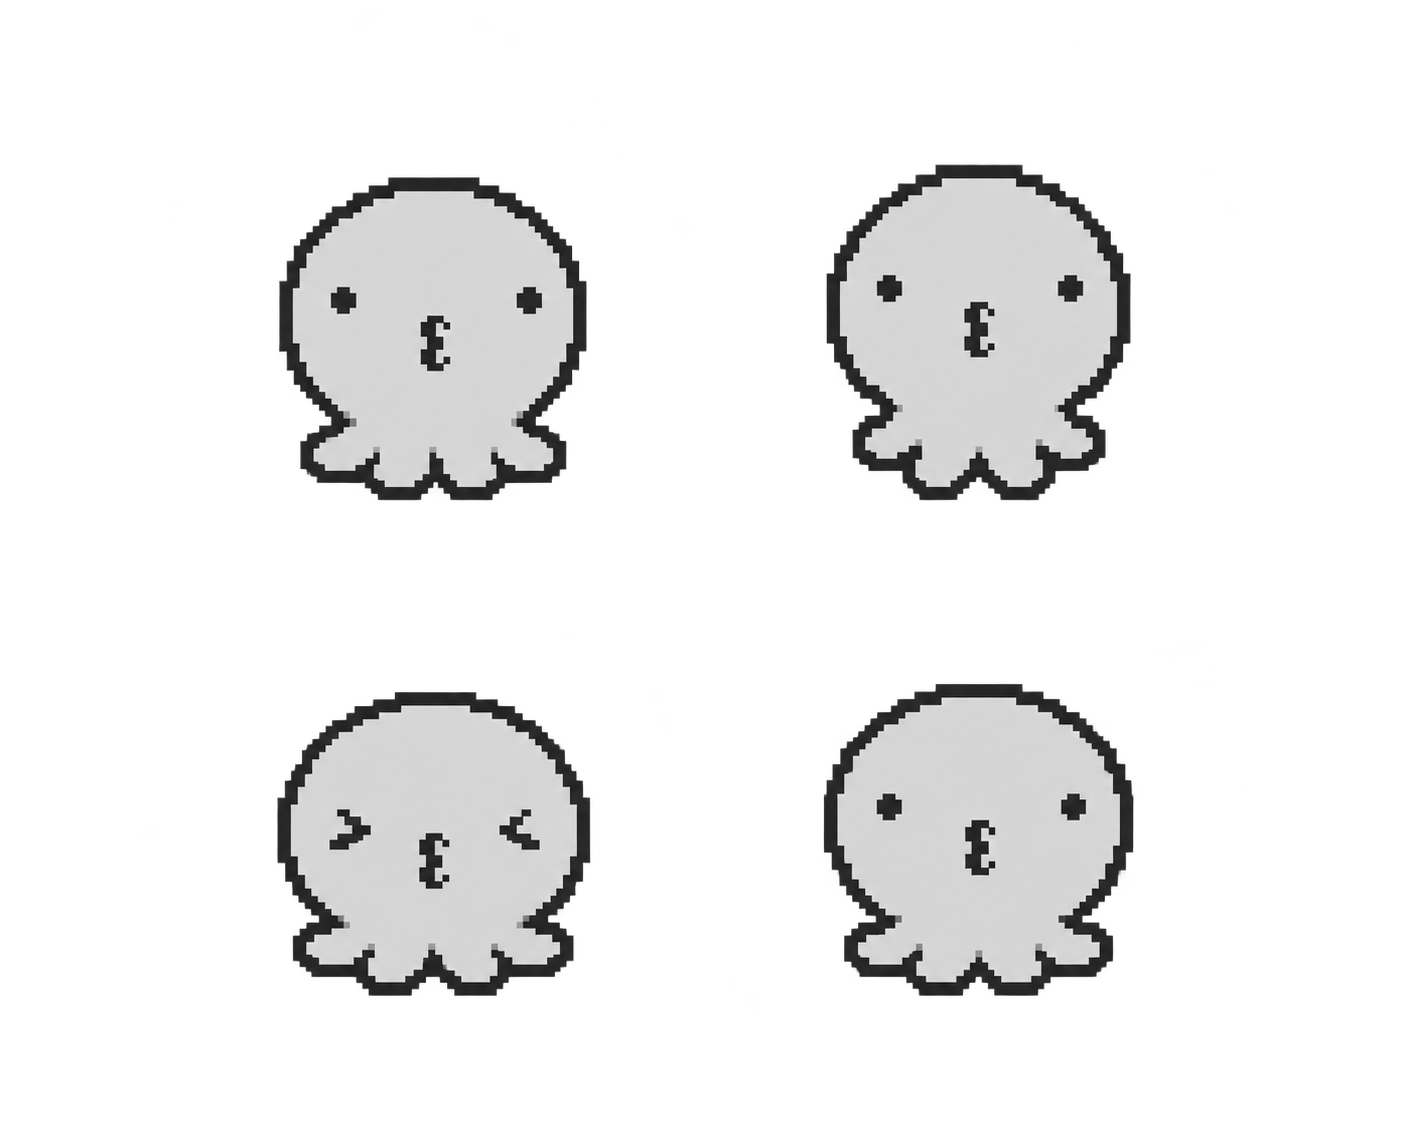
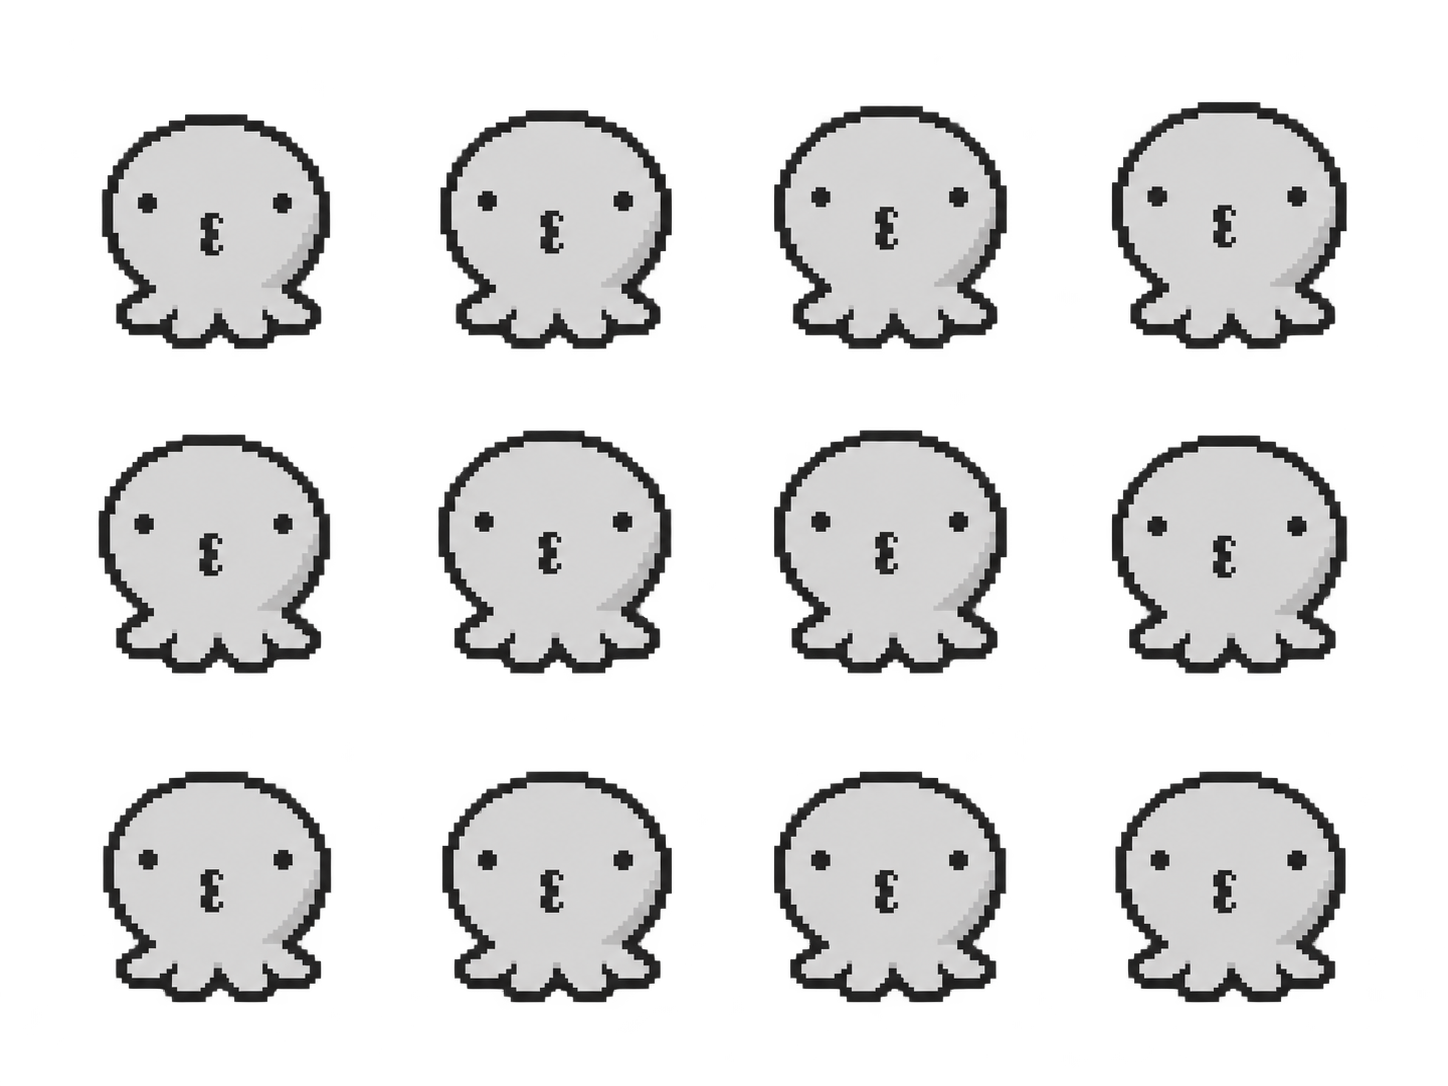
캐릭터: 첫 대기 시안 GIF와 최종 에셋 모음 정리

diff --git a/docs/검증/octopus-character-assets/README.md b/docs/검증/octopus-character-assets/README.md
@@ -2,11 +2,13 @@
 
 사용자 그림의 회색 몸체·둥근 머리·짧은 네 촉수·3자 입을 기준으로 만든 픽셀 에셋이다. 현재 게임 캐릭터에는 미적용 상태다.
 
+사용자가 선택한 에셋은 [final 폴더](final/README.md)에 따로 모은다. 대기와 승리를 보관했으며, 이후 완성하는 동작도 같은 폴더를 갱신한다. 실제 게임 반영은 사용자가 일괄 적용을 요청할 때 진행한다.
+
 ## 투명 PNG
 
 | 동작 | 스프라이트 시트 | 프레임 수 | 권장 시간 |
 |---|---|---:|---|
-| 대기 | [idle-64.png](idle-64.png) | 4 | 350 / 200 / 90 / 350 ms |
+| 대기 | [idle-64.png](idle-64.png) | 12 | 각 250 ms, 호흡 3초 |
 | 이동 | [walk-64.png](walk-64.png) | 4 | 각 130 ms |
 | 멈춤 | [stop-64.png](stop-64.png) | 4 | 100 / 90 / 120 / 650 ms |
 | 피격 | [hit-64.png](hit-64.png) | 4 | 100 / 90 / 140 / 750 ms |
@@ -22,10 +24,12 @@ Unity 가져오기 권장: Sprite (2D and UI), Multiple, Grid by Cell Size 64×6
 - [승리 춤 GIF](victory-preview.gif)
 - [대기](idle-preview.gif), [이동](walk-preview.gif), [멈춤](stop-preview.gif), [피격](hit-preview.gif)
 
+대기는 사용자가 선택한 첫 번째 12프레임 시안을 그대로 GIF와 가로 아틀라스로 조립했다. 후속 사선 자세·입 방향 수정은 사용자가 취소해 반영하지 않았다. 점눈과 작은 입을 유지하며 위쪽 몸체가 천천히 오르내리는 3초 호흡이다. 원본 4열×3행의 투명 간격으로 셀을 분리하고, 높이 중앙값44픽셀 공통 배율과 발 하단y56을 적용했다. 최종 프레임 높이는43~46픽셀이다. 프레임마다 따로 크기를 맞추거나 입을 다시 그리지 않았다.
+
 승리는 기존 생성 시트를 참고하지 않고 사용자 원본 그림의 왼쪽 아래 승리 포즈에서 새로 제작했다. 반쯤 감긴 눈·비뚤어진 미소·둥근 몸·네 짧은 촉수를 살렸다. 화면 왼쪽 바깥 촉수 하나가 가슴 앞에 가로로 놓인 채 천천히 허리 쪽으로 내려갔다 돌아온다. 반대편 촉수와 두 안쪽 발은 쉬는 자세를 유지한다. 양팔 교대·빠른 펀치·가슴 팝 대신 한쪽 팔의 느린 흔들림이 중심이다.
 
 첨부 `녹화_2026_10_16_15_19_03_217.mp4`를 imageio-ffmpeg 0.6.0/FFmpeg 7.1로 실제 디코딩했다(5.53초, 488×852, 30fps). 0.2초 간격의 28개 프레임에서 한쪽 가로 팔이 가슴에서 허리 쪽으로 천천히 낮아지는 흐름을 확인하고 생성 도구의 동작 참고로 사용했다. 음성 트랙의 16kHz 모노 표본 88,422개가 모두 0인 무음이므로 음악 BPM이나 정확한 음악 동기화는 확인할 수 없다. 현재 3.2초 왕복은 보이는 팔의 속도를 참고한 해석이며, 실제 BPM을 측정한 결과가 아니다. 녹화 영상 프레임과 음원은 배포 에셋에 포함하지 않았다.
 
 승리 원본은 4열×4행이며, 알파 분포의 빈 간격으로 셀을 분리했다. 알파 128 초과 영역의 경계를 잘라 전체 높이 중앙값이 44픽셀이 되는 공통 배율을 적용했다. 위쪽 45% 머리 외곽 중심을 x=32, 하단 발 기준을 y=56으로 정렬했다. 최종 16프레임 높이는 모두 44픽셀이다. 투명 가로 아틀라스는 1024×64다. GIF는 256×256 nearest-neighbor 확대, 배경 RGB(222,216,199), 무한 반복이다. 전체 미리보기는 새 승리 한 번 분량인 3.2초이며 각 동작의 실제 프레임 전환 시점을 사용한다.
 
-제작: imagegen 내장 도구. 정확한 생성 프롬프트와 참고 자료는 [prompts.json](prompts.json), 셀 크기·피벗·프레임별 시간과 타이밍 한계는 [manifest.json](manifest.json)에 기록했다. PNG 알파와 셀 크기, 모든 GIF 프레임의 디코딩 및 승리 16프레임의 외형·촉수 연결을 확인했다. 대기·이동·멈춤·피격 에셋은 기존 파일 그대로 유지했다.
+제작: imagegen 내장 도구. 정확한 생성 프롬프트와 참고 자료는 [prompts.json](prompts.json), 셀 크기·피벗·프레임별 시간과 타이밍 한계는 [manifest.json](manifest.json)에 기록했다. PNG 알파와 셀 크기, 모든 GIF 프레임의 디코딩 및 승리 16프레임의 외형·촉수 연결을 확인했다. 이동·멈춤·피격·승리 개별 에셋은 이번 대기 작업에서 유지했다.

diff --git a/docs/검증/octopus-character-assets/final/README.md b/docs/검증/octopus-character-assets/final/README.md
@@ -1,0 +1,14 @@
+# 일괄 적용용 최종 에셋
+
+사용자가 선택한 동작을 모아두는 고정 폴더다. 게임에는 아직 적용하지 않았으며, 요청 시 이 폴더의 에셋을 한꺼번에 가져온다. 새 동작이 완성되면 같은 폴더를 갱신한다.
+
+| 동작 | 투명 PNG 아틀라스 | 미리보기 | 프레임·시간 |
+|---|---|---|---|
+| 대기 | [idle-64.png](idle-64.png) | [idle-preview.gif](idle-preview.gif) | 12프레임·각250ms·3초 |
+| 승리 | [victory-64.png](victory-64.png) | [victory-preview.gif](victory-preview.gif) | 16프레임·각200ms·3.2초 |
+
+대기는 사용자가 선택한 첫 시안 그대로의 호흡, 승리는 원본 승리 그림에서 만든 느린 한쪽 팔 왕복이다. 추가 동작도 이 폴더에 보관한다.
+
+공통 가져오기: 64×64 셀의 가로 RGBA 시트, Sprite Multiple, Point 필터, Compression None, Mip Maps 끔, 발 피벗(0.5,0.125). Pixels Per Unit은48을 시작점으로 게임 크기에 맞춘다. 개별 프레임 수·시간·파일명은 [manifest.json](manifest.json)에 있다. 원본 생성 시트와 프롬프트는 상위 폴더의 source/ 및 prompts.json에 보관한다.
+
+GIF는256×256 nearest-neighbor 확대 미리보기이며 게임 원본은 PNG다. 승리 참고 녹화는 무음이므로3.2초 타이밍은 보이는 움직임에 따른 해석이다.

diff --git a/docs/구조/characters/README.md b/docs/구조/characters/README.md
@@ -14,6 +14,12 @@
 
 ## 관련 파일
 
+- `Source/문어_유한맵/../../docs/검증/octopus-character-assets/final/idle-64.png`
+- `Source/문어_유한맵/../../docs/검증/octopus-character-assets/final/idle-preview.gif`
+- `Source/문어_유한맵/../../docs/검증/octopus-character-assets/final/manifest.json`
+- `Source/문어_유한맵/../../docs/검증/octopus-character-assets/final/README.md`
+- `Source/문어_유한맵/../../docs/검증/octopus-character-assets/final/victory-64.png`
+- `Source/문어_유한맵/../../docs/검증/octopus-character-assets/final/victory-preview.gif`
 - `Source/문어_유한맵/../../docs/검증/octopus-character-assets/hit-64.png`
 - `Source/문어_유한맵/../../docs/검증/octopus-character-assets/idle-64.png`
 - `Source/문어_유한맵/../../docs/검증/octopus-character-assets/stop-64.png`

diff --git a/docs/구조/characters/NOTES.md b/docs/구조/characters/NOTES.md
@@ -1,5 +1,7 @@
 # 최근 변경
 
+- 2026-10-16 대기·최종본 보관: 사용자가 첫 번째 대기 시안을 선택해 후속 자세/입 수정은 취소했다. 선택 시안 그대로12프레임·3초 호흡 GIF와768×64 RGBA 아틀라스를 조립했다. 대기와 확정 승리의 PNG/GIF·적용 manifest를 docs/검증/octopus-character-assets/final에 모았다. 이후 최종 동작은 같은 폴더에서 갱신하고 실제 게임에는 한꺼번에 적용할 예정. 승리 에셋은 보존했다.
+
 ## 2026-10-13 시야·속성 몬스터·대시
 
 - 카메라 11, 캐릭터 화면 높이 4%. Shift+이동 방향 대시(22속도, 0.18초), 3초 순차 충전, 기본 1회/희귀 강화 2회. 서버 판정과 지형 충돌을 사용하며 다운·전투 종료 시 진행 중 대시를 취소한다.
